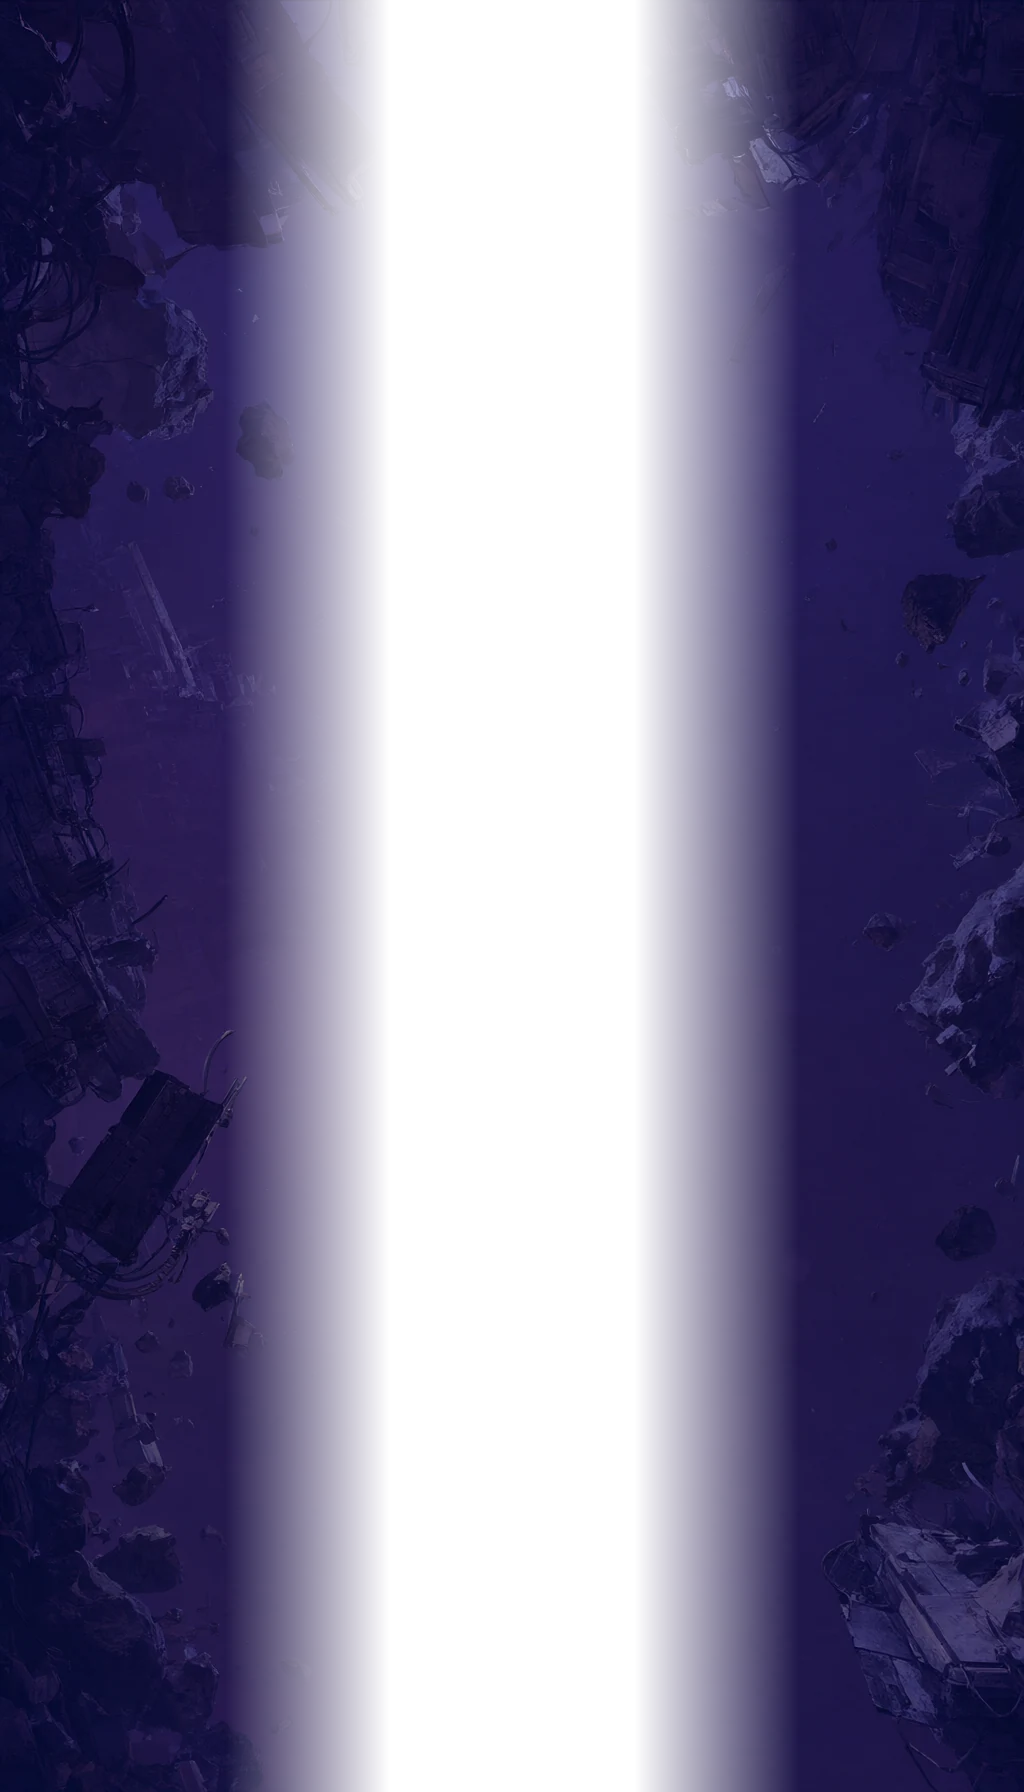
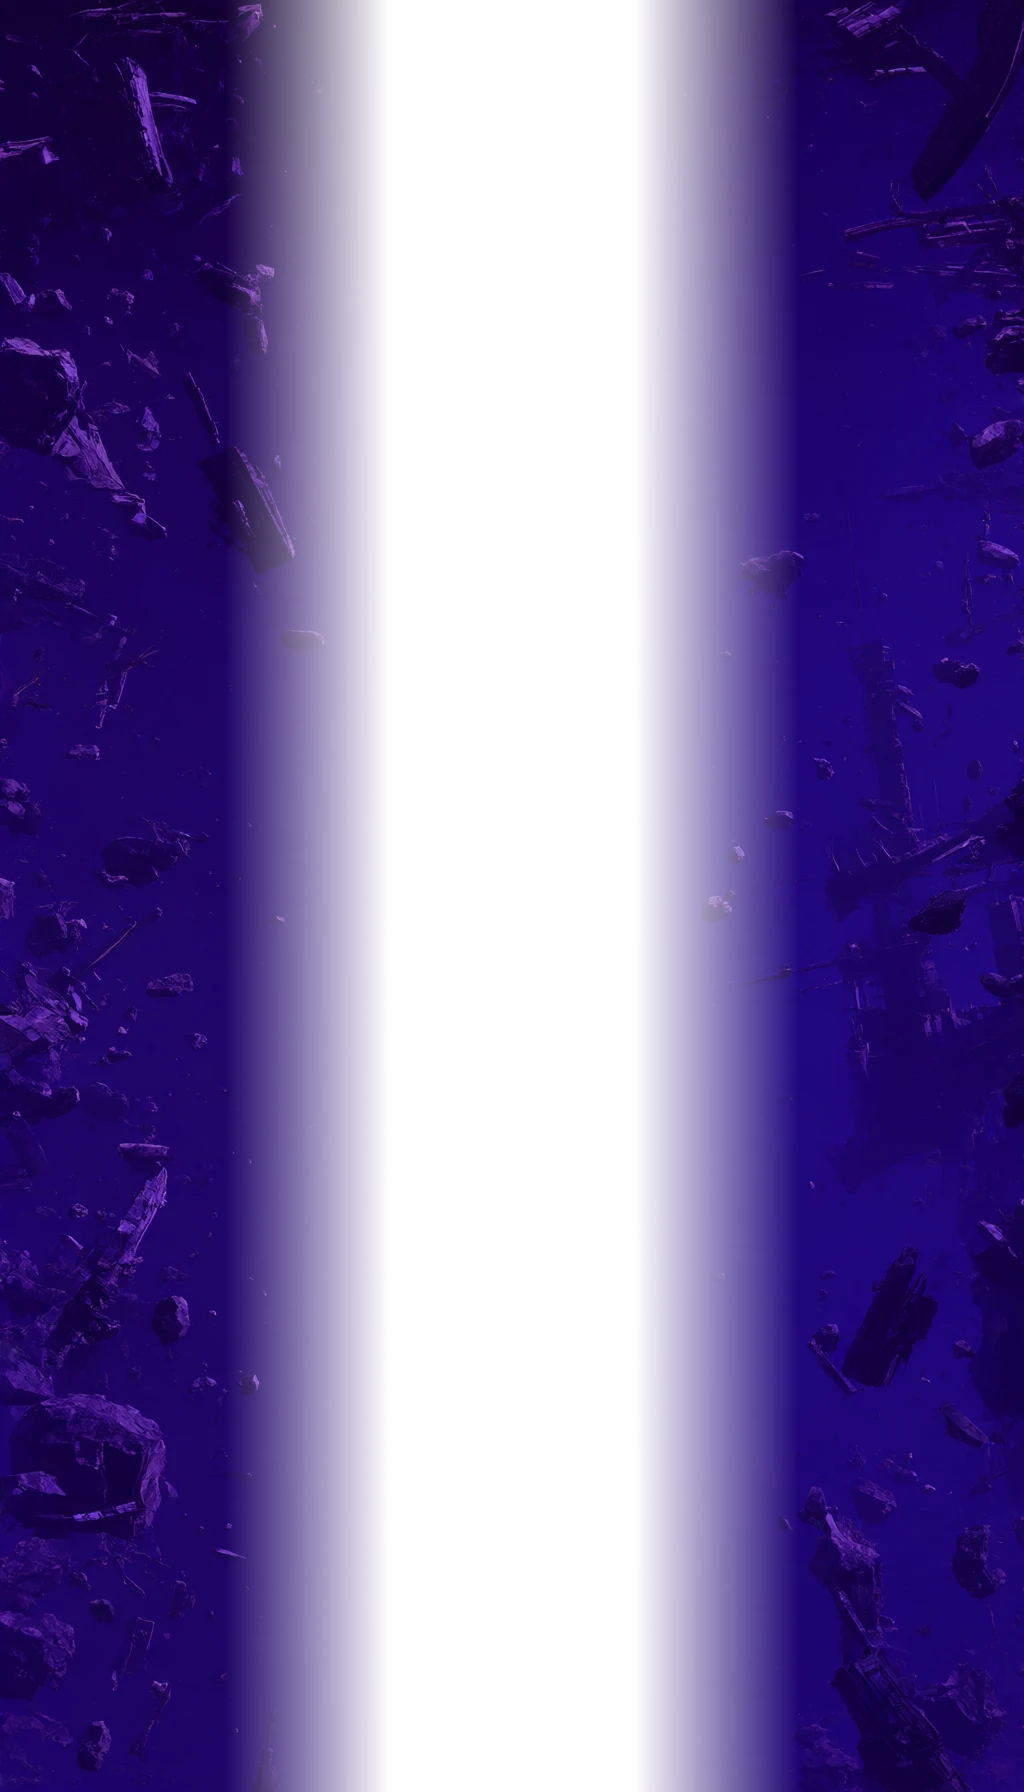
Refine stage backgrounds and parallax intensity

diff --git a/game3.js b/game3.js
@@ -1249,7 +1249,7 @@ function drawLoopLayer(img,scroll,alpha,fitWidth){
 }
 function paintStageBg(main,edge,offsetY){
   drawLoopLayer(main,bgScroll+(offsetY||0),1,false);
-  if(edge) drawLoopLayer(edge,bgEdgeScroll+(offsetY||0)*1.35,0.92,true);
+  if(edge) drawLoopLayer(edge,bgEdgeScroll+(offsetY||0)*1.35,[0.88,0.86,0.55][stage]||0.8,true);
 }
 function drawBgDust(){
   ctx.save();
@@ -1699,7 +1699,7 @@ function drawScene(){
   var mainBg=BG_MAIN[stage],edgeBg=BG_EDGE[stage];
   if(!mainBg||!mainBg.complete||!mainBg.naturalWidth) mainBg=bgCurrent;
   paintStageBg(mainBg,edgeBg,bgOff);
-  ctx.fillStyle='rgba(3,6,14,'+(stage===2?0.32:0.20)+')';ctx.fillRect(0,0,W,H);
+  ctx.fillStyle='rgba(3,6,14,'+(stage===2?0.28:(stage===0?0.16:0.20))+')';ctx.fillRect(0,0,W,H);
   for(var i=0;i<stars.length;i++){var st=stars[i];ctx.globalAlpha=0.25+st.z*0.5;ctx.fillStyle='#cfe6ff';ctx.fillRect(st.x,st.y,st.z*1.4,st.z*1.4);}
   ctx.globalAlpha=1;drawBgDust();
   if(state==='warpIn'||state==='warpOut'){
